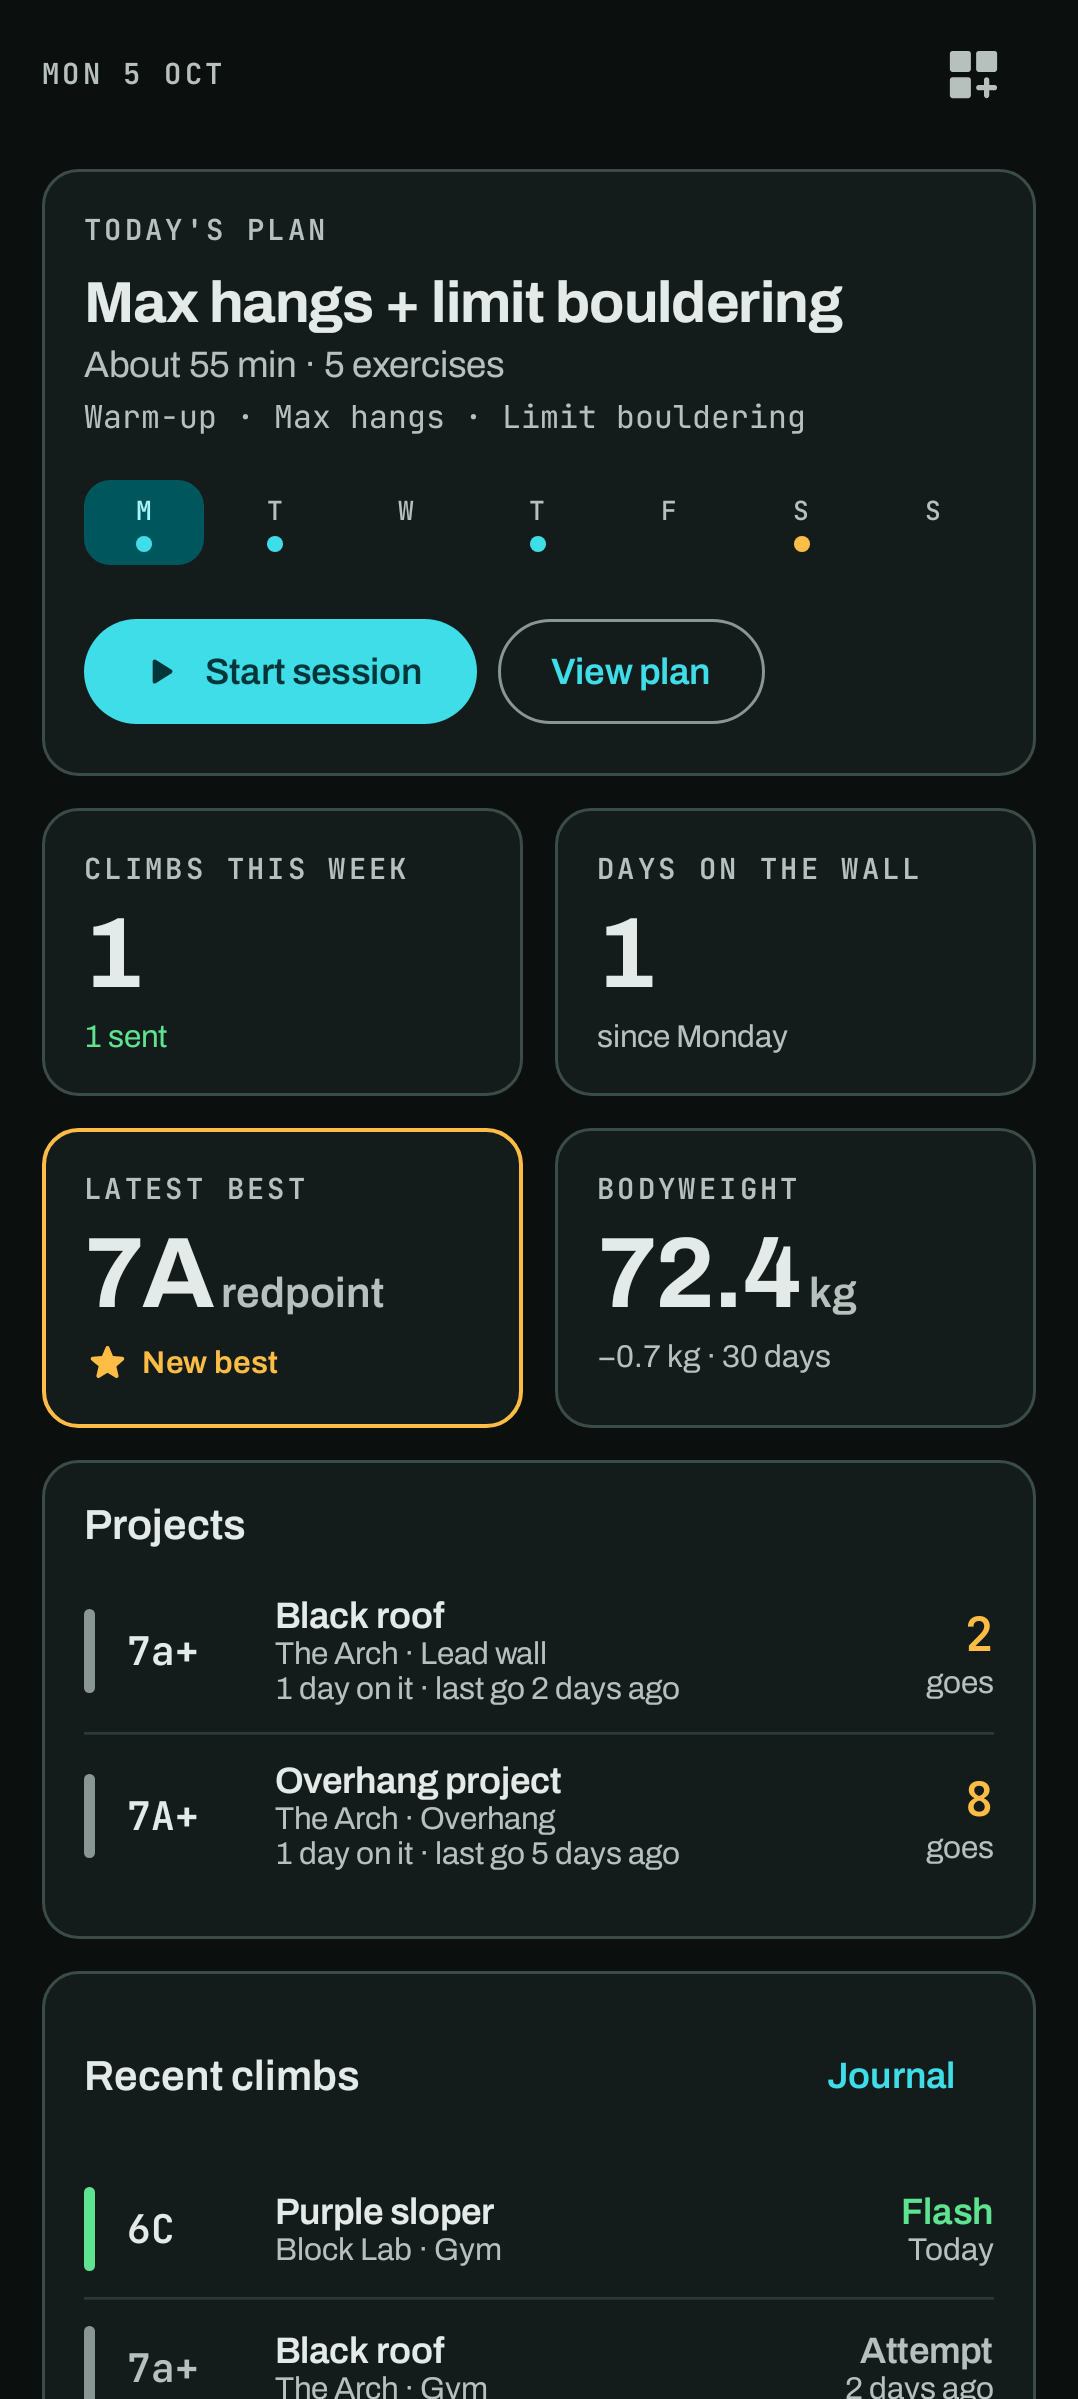
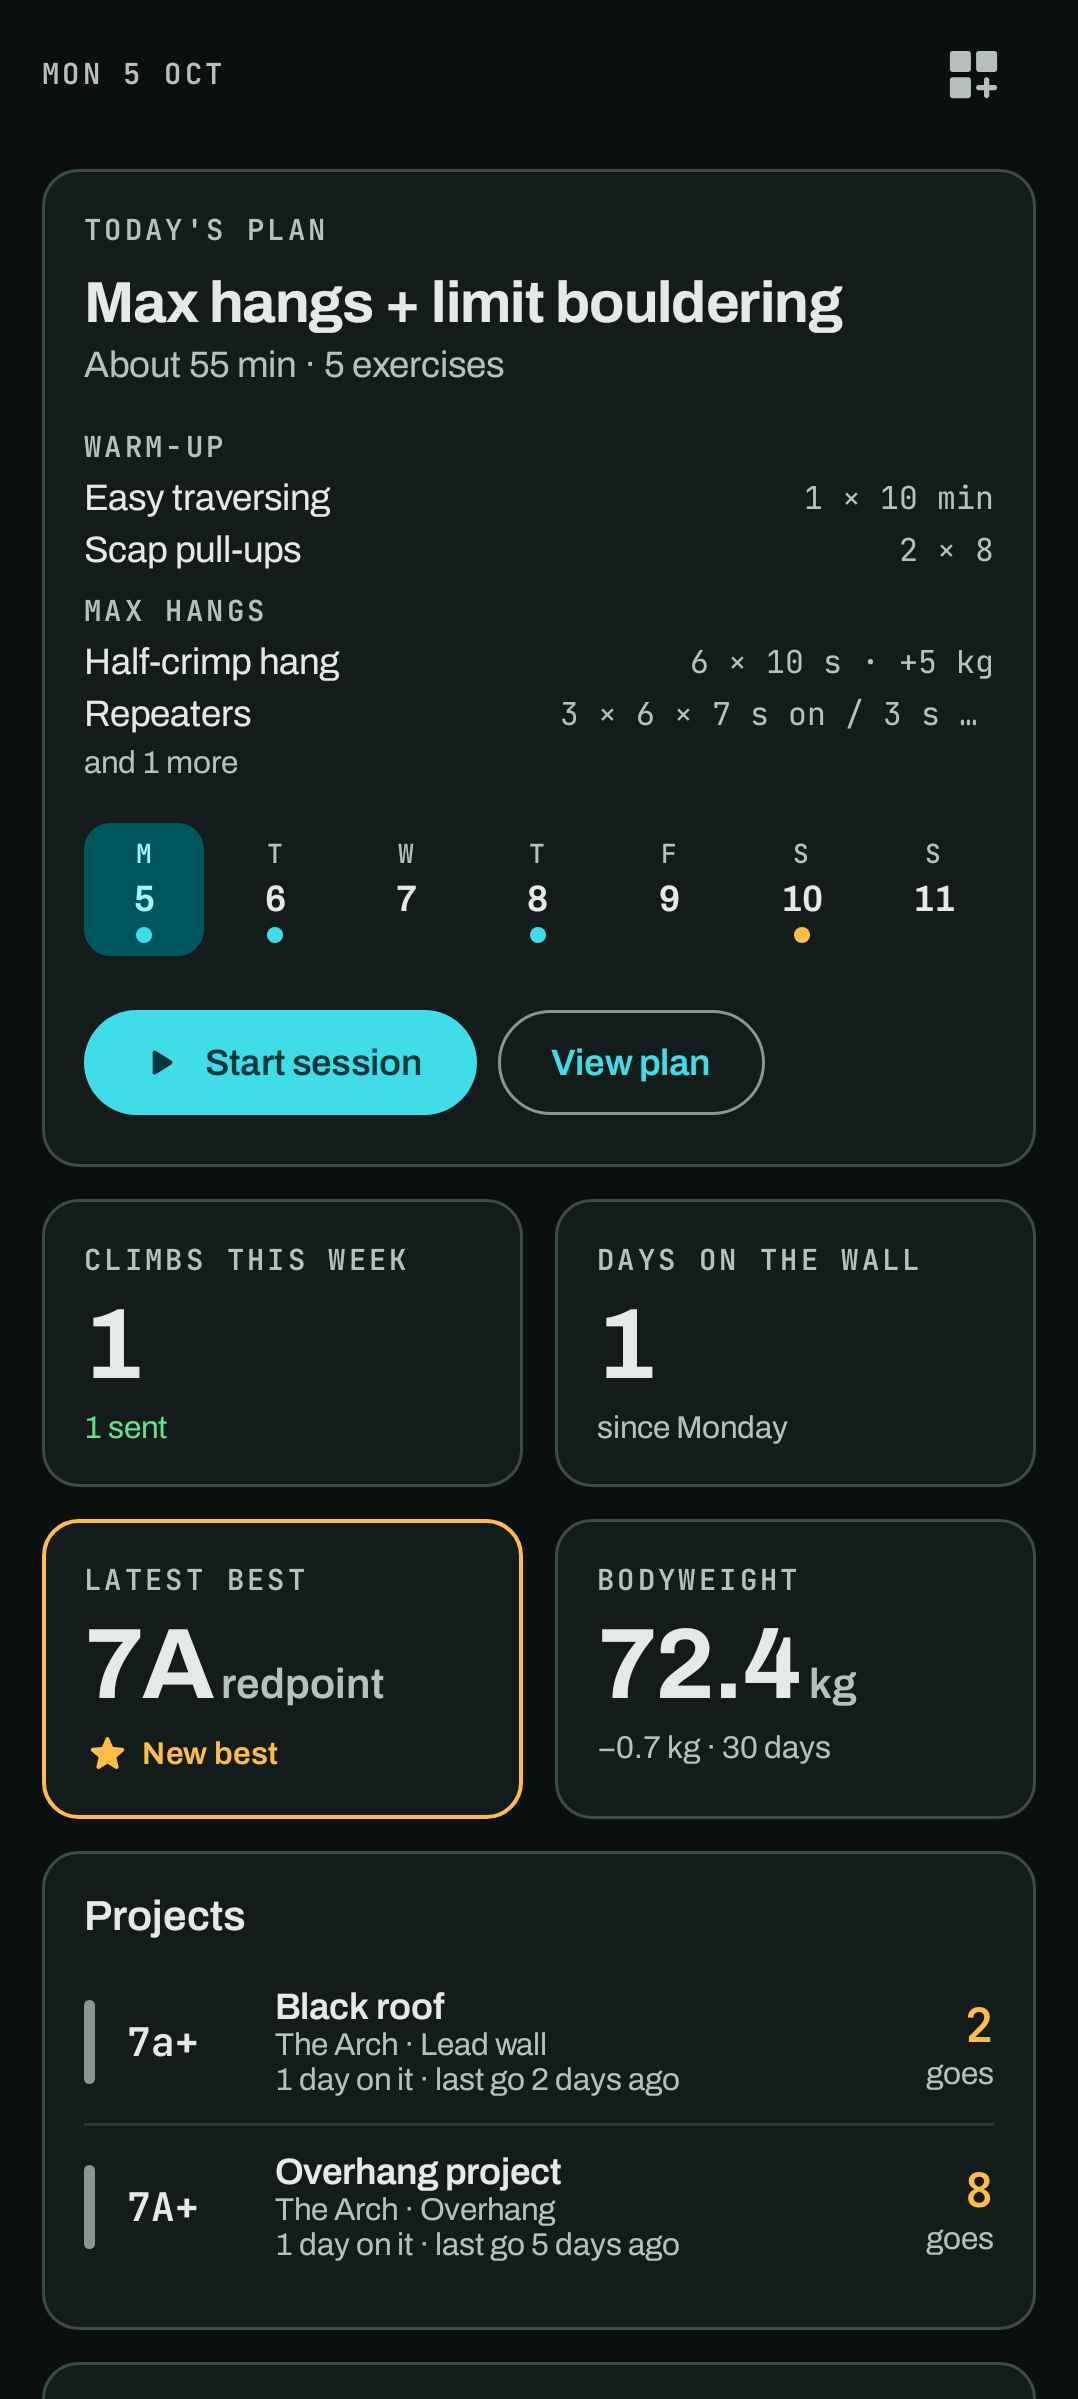
Today's plan widget lists the day's exercises with their targets, and the week strip shows dates

diff --git a/app/src/main/java/com/hardtekpt/crux/ui/home/Widgets.kt b/app/src/main/java/com/hardtekpt/crux/ui/home/Widgets.kt
@@ -236,25 +236,54 @@ private fun TodaysPlanWidget(state: HomeUiState, large: Boolean, onOpen: (Long) 
             style = MaterialTheme.typography.bodyMedium,
             color = MaterialTheme.colorScheme.onSurfaceVariant,
         )
-        if (large) {
-            Column(Modifier.padding(top = CruxTheme.space.s2), verticalArrangement = Arrangement.spacedBy(2.dp)) {
-                plan.blocks.flatMap { it.items }.forEach { item ->
-                    Row {
-                        Text(item.exercise.name, style = MaterialTheme.typography.bodyMedium, modifier = Modifier.weight(1f))
+        // The day's plan in detail: each block, and each exercise with what it asks for. Wide shows
+        // the first few exercises; large shows them all.
+        val imperial = LocalUnits.current == com.hardtekpt.crux.data.prefs.UnitSystem.IMPERIAL
+        val total = plan.blocks.sumOf { it.items.size }
+        var budget = if (large) Int.MAX_VALUE else WIDE_PLAN_ROWS
+        Column(
+            Modifier.padding(top = CruxTheme.space.s2).testTag("todays_plan_detail"),
+            verticalArrangement = Arrangement.spacedBy(4.dp),
+        ) {
+            plan.blocks.forEach { block ->
+                if (budget <= 0 || block.items.isEmpty()) return@forEach
+                if (block.name.isNotBlank()) {
+                    Text(
+                        block.name.uppercase(),
+                        style = MaterialTheme.typography.labelSmall,
+                        color = MaterialTheme.colorScheme.onSurfaceVariant,
+                        modifier = Modifier.padding(top = 4.dp),
+                    )
+                }
+                block.items.take(budget).forEach { item ->
+                    Row(verticalAlignment = Alignment.CenterVertically, horizontalArrangement = Arrangement.SpaceBetween, modifier = Modifier.fillMaxWidth()) {
                         Text(
-                            item.prescription(LocalUnits.current == com.hardtekpt.crux.data.prefs.UnitSystem.IMPERIAL),
+                            item.exercise.name,
+                            style = MaterialTheme.typography.bodyMedium,
+                            maxLines = 1,
+                            overflow = TextOverflow.Ellipsis,
+                            modifier = Modifier.weight(1f, fill = false),
+                        )
+                        Text(
+                            item.prescription(imperial),
                             style = CruxTheme.type.code,
                             color = MaterialTheme.colorScheme.onSurfaceVariant,
+                            maxLines = 1,
+                            overflow = TextOverflow.Ellipsis,
+                            // Each side keeps at least half the row, so neither shrinks to a letter.
+                            modifier = Modifier.weight(1f, fill = false).padding(start = CruxTheme.space.s2),
                         )
                     }
                 }
+                budget -= block.items.size
             }
-        } else {
-            Text(
-                plan.blocks.joinToString(" · ") { it.name },
-                style = CruxTheme.type.code,
-                color = MaterialTheme.colorScheme.onSurfaceVariant,
-            )
+            if (!large && total > WIDE_PLAN_ROWS) {
+                Text(
+                    "and ${total - WIDE_PLAN_ROWS} more",
+                    style = MaterialTheme.typography.bodySmall,
+                    color = MaterialTheme.colorScheme.onSurfaceVariant,
+                )
+            }
         }
         if (state.schedule.isNotEmpty()) com.hardtekpt.crux.ui.train.WeekStrip(state.schedule, state.today, Modifier.padding(top = CruxTheme.space.s3))
         Row(
@@ -605,3 +634,6 @@ private fun ExerciseWidget(exerciseId: Long?, state: HomeUiState, size: WidgetSi
         }
     }
 }
+
+/** How many of today's exercises the wide Today's plan widget lists before "and N more". */
+private const val WIDE_PLAN_ROWS = 4

diff --git a/app/src/main/java/com/hardtekpt/crux/ui/train/WeekView.kt b/app/src/main/java/com/hardtekpt/crux/ui/train/WeekView.kt
@@ -318,6 +318,11 @@ fun WeekStrip(week: List<WeekDay>, today: LocalDate, modifier: Modifier = Modifi
                     style = DayLabel,
                     color = if (isToday) colors.onPrimaryContainer else colors.onSurfaceVariant,
                 )
+                Text(
+                    day.date.dayOfMonth.toString(),
+                    style = MaterialTheme.typography.titleSmall,
+                    color = if (isToday) colors.onPrimaryContainer else colors.onSurface,
+                )
                 Column(
                     Modifier
                         .width(6.dp)

diff --git a/docs/user/home.md b/docs/user/home.md
@@ -11,7 +11,7 @@ dashboard. While editing, a bar at the top holds *Add widget* and *Done*.
 
 | Widget | Shows |
 | --- | --- |
-| **Today's plan** | Today's plan from your week (*Train → Week*), with how long it takes, its blocks, *Start session* and *View plan*, and the week as a strip of dots: teal for plans, amber for climbing, green once done. On a rest day it says what's next. With no week set up, it rotates through your plans by day of the week. |
+| **Today's plan** | Today's plan from your week (*Train → Week*), with how long it takes, each block with its exercises and what they ask for (wide shows the first four, large all of them), *Start session* and *View plan*, and the week as a strip of days with their dates and dots: teal for plans, amber for climbing, green once done. On a rest day it says what's next. With no week set up, it rotates through your plans by day of the week. |
 | **This week** | Climbs and sends since Monday. Tap it for the **Climbs this week** page: the week's climbs, sends, days and hardest send, then each day's climbs (sessions included) as the Journal shows them. The arrows go back through earlier weeks. |
 | **Days on the wall** | Days you climbed since Monday. Tap it for the **Days on the wall** page: your days this week, month and year and your week streak, and a month calendar with each climbing day filled (deeper for more climbs). Tap a day to see its journal under the calendar; the arrows page through the months. |
 | **Latest best** | Your newest hardest send: the latest send harder than every send before it, in any style. An easier flash after a harder redpoint doesn't replace it. Grades are compared within a scale. |

diff --git a/CHANGELOG.md b/CHANGELOG.md
@@ -23,6 +23,8 @@ and versions follow [Semantic Versioning](https://semver.org/). Each release als
 
 ### Changed
 
+- **Today's plan shows the plan**: each block with its exercises and their sets, reps, time and
+  load, and the week strip shows the dates.
 - **A simpler live session**: every exercise in one list, each with a table of its sets showing
   last time's values. Tap a value to change it in place and tick the set. A dock at the bottom
   holds Done for the next set, the rest countdown and the interval timer; climbs, extra exercises
